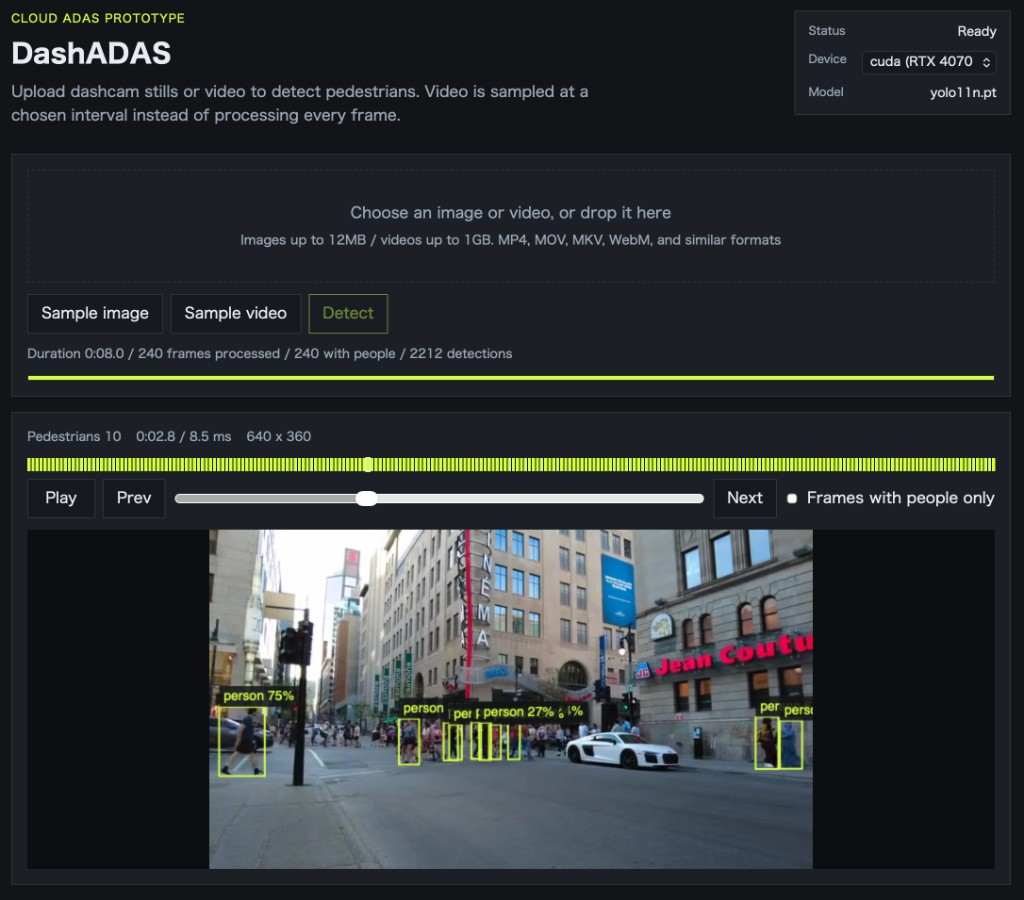
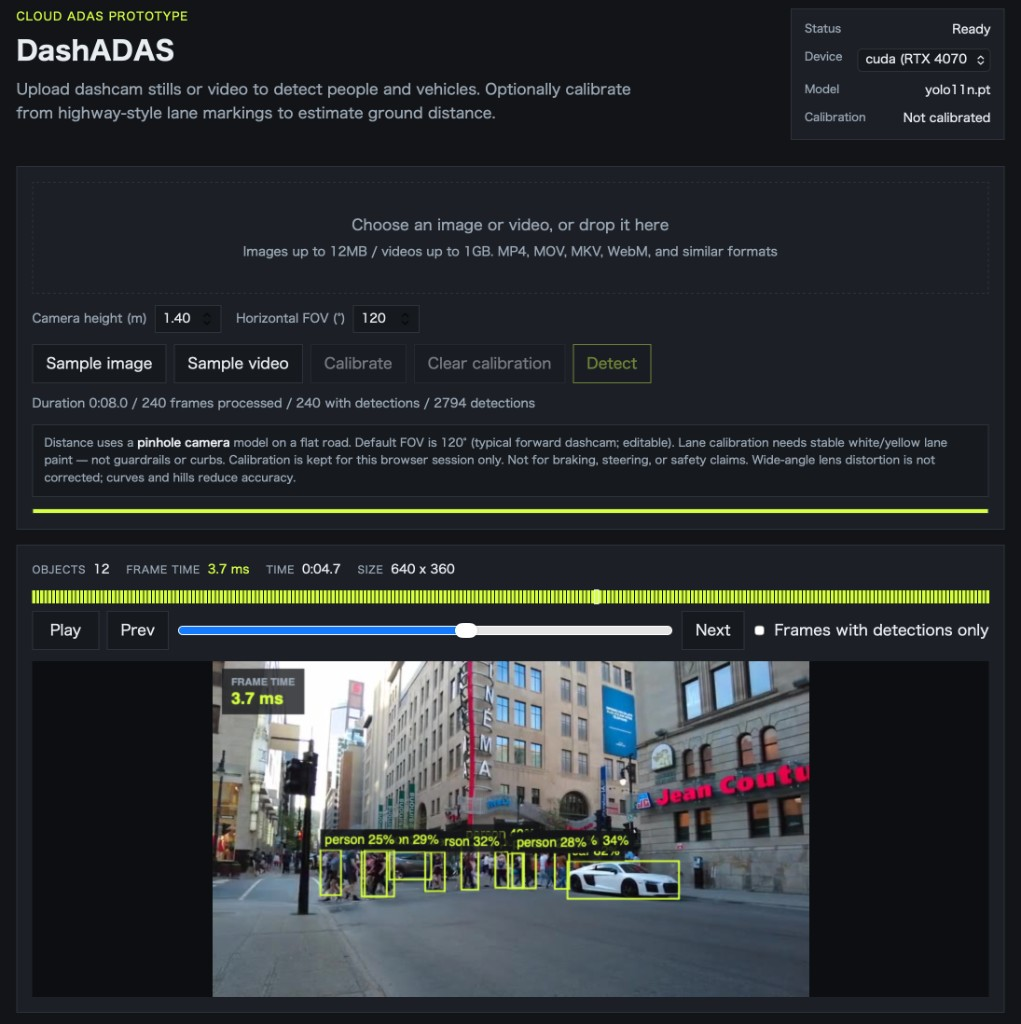
Update the README screenshot and docs for calibration, distance, and non-looping playback.

diff --git a/frontend/index.html b/frontend/index.html
@@ -4,7 +4,7 @@
     <meta charset="UTF-8" />
     <meta name="viewport" content="width=device-width, initial-scale=1" />
     <title>DashADAS</title>
-    <link rel="stylesheet" href="/styles.css?v=12" />
+    <link rel="stylesheet" href="/styles.css?v=13" />
   </head>
   <body>
     <header class="top">
@@ -117,6 +117,6 @@
       </section>
     </main>
 
-    <script src="/app.js?v=12"></script>
+    <script src="/app.js?v=13"></script>
   </body>
 </html>

diff --git a/frontend/app.js b/frontend/app.js
@@ -374,7 +374,11 @@ function playTick(now) {
       setPlaying(false);
       return;
     }
-    viewIndex = viewIndex >= frames.length - 1 ? 0 : viewIndex + 1;
+    if (viewIndex >= frames.length - 1) {
+      setPlaying(false);
+      return;
+    }
+    viewIndex += 1;
     showVideoFrame();
   }
   playHandle = requestAnimationFrame(playTick);

diff --git a/README.md b/README.md
@@ -1,25 +1,28 @@
 # DashADAS
 
-A **Linux** pedestrian-detection service with a **Web UI**. Docker on the Linux host runs YOLO on CPU, an NVIDIA GPU, or Qualcomm QNN CPU emulation; you open the UI in a browser on the LAN (`http://HOST:8080`) and upload a dashcam still or video. The page draws bounding boxes.
+A **Linux** dashcam perception demo with a **Web UI**. Docker on the Linux host runs YOLO11n on CPU, an NVIDIA GPU, or Qualcomm QNN CPU emulation; you open the UI in a browser on the LAN (`http://HOST:8080`), upload a still or video, and the page draws boxes. Optionally calibrate from highway-style lane markings to estimate ground distance (pinhole + flat-road model).
 
 This is a **lab / LinkedIn demo**, not a production vehicle ADAS. There is no control loop, no real-time guarantee, and no authentication.
 
 Repository: [KojiTanaka2025/DashADAS](https://github.com/KojiTanaka2025/DashADAS)
 
-![DashADAS Web UI: sample video with pedestrian boxes, inference on a remote NVIDIA GPU](docs/demo-ui.jpg)
+![DashADAS Web UI: sample video with person and vehicle boxes, frame time, and camera settings on a remote NVIDIA GPU](docs/demo-ui.jpg)
 
-*Screenshot: the **Web UI** in a browser at `http://HOST:8080`. Detection runs in Docker on the Linux GPU host.*
+*Screenshot: the **Web UI** at `http://HOST:8080` on CUDA. Object overlays, per-frame inference time, camera height / FOV inputs, and calibration status (session-only).*
 
 ## What it does
 
-- Detects **people only** with a pretrained YOLO11n model
+- Detects **people and vehicles** (person, car, motorcycle, bus, truck) with pretrained YOLO11n on CPU/CUDA; the QNN path stays **person-only**
 - Overlays boxes in the browser (the server returns JSON, not burned-in images)
+- Shows **frame time** (model inference ms) in the meta row and on the canvas
 - Samples video at a chosen interval, including **30 fps** on a GPU host
-- Plays the result in the Web UI (Play / Pause, timeline)
+- Plays the result in the Web UI (Play / Pause, timeline; playback **stops at the end**, no loop)
+- Optional **Calibrate** (separate from Detect): stable white/yellow lane paint → vanishing point; then boxes can show estimated distance in meters
+- Camera height and horizontal FOV (default **120°**) are editable; calibration is kept in the browser session only
 - **Sample image** uses the public Ultralytics `bus.jpg`
 - **Sample video** fetches a public street clip with pedestrians, trims it to 8 seconds, then detects and plays it
 
-Open the UI, click **Sample video**, wait for the progress bar, then watch the 30 fps overlay.
+Open the UI, click **Sample video**, wait for the progress bar, then watch the overlay. For distance labels, calibrate first on a clear highway-style lane clip.
 
 ## Requirements
 
@@ -185,21 +188,23 @@ This repo is a **lab look at that family**, not a Ride port. It converts the sam
 
 ```mermaid
 flowchart LR
-  browser["Browser on the LAN"] -->|"upload image or video"| api["FastAPI in Docker"]
-  api --> yolo["YOLO11n person class"]
-  yolo -->|"JSON boxes"| browser
+  browser["Browser on the LAN"] -->|"upload / calibrate / detect"| api["FastAPI in Docker"]
+  api --> yolo["YOLO11n objects"]
+  api --> lanes["Lane VP calibration"]
+  yolo -->|"JSON boxes + frame time"| browser
+  lanes -->|"session calib"| browser
   browser --> canvas["Canvas overlay"]
 ```
 
 | Piece | Choice |
 | --- | --- |
-| Model | YOLO11n, COCO `person` only |
+| Model | YOLO11n; CPU/CUDA: person + vehicles; QNN: person only |
 | Serving | FastAPI + Uvicorn, one worker |
 | Video | ffmpeg frame sampling, background jobs |
-| UI | Static HTML/JS, canvas boxes |
+| UI | Static HTML/JS, canvas boxes, frame time, optional distance |
 | Runtime | Docker; CPU PyTorch, CUDA wheels, or QNN CPU emulation |
 | Native lib | `libdashadas_perception.so` (C ABI) on Linux amd64; see `native/README.md` |
-| Calibration | Optional highway-style lane vanishing point (session-only); pinhole distance labels |
+| Calibration | Highway-style lane vanishing point (session-only); pinhole distance labels |
 
 ## Native C++ library
 
@@ -215,9 +220,18 @@ That produces `native/build/libdashadas_perception.so`. Link with `-ldashadas_pe
 
 ## Video settings
 
-For a real dashcam clip, start with **1 second interval, 300 frames max**. Use **30 fps** only on GPU and on short clips. CPU can keep up with sparse sampling, not with full 30 fps dashcam.
+For a real dashcam clip, start with **1 second interval, 300 frames max**. Use **30 fps** only on GPU and on short clips. CPU can keep up with sparse sampling, not with full 30 fps dashcam. Playback stops on the last frame (no loop).
 
 Uploads are capped at 12 MB for images and 1 GB for video.
+
+## Lane calibration and distance
+
+1. Set **camera height** (m) and **horizontal FOV** (°; default 120).
+2. Select a video with clear white/yellow lane paint (motorway-like). Press **Calibrate** (not Detect).
+3. When enough stable lane frames are found, the header shows **Calibrated** and the session stores the vanishing point.
+4. Run **Detect**; boxes can show class, score, and estimated distance. Clear calibration or close the tab to reset.
+
+This uses a **pinhole** camera on a **flat road**. Distortion is not corrected. It is not for braking or steering.
 
 ## Security
 
@@ -227,4 +241,4 @@ Uploads are capped at 12 MB for images and 1 GB for video.
 
 ## Disclaimer
 
-DashADAS is a cloud-style **perception demo**. It does not steer, brake, or certify a vehicle. Timing numbers are for lab comparison of CPU, GPU, and QNN CPU emulation, not for safety claims. The QNN path shows familiarity with the QAIRT conversion/runtime used around Snapdragon Ride; it is not a Snapdragon Ride DCU implementation.
+DashADAS is a cloud-style **perception demo**. It does not steer, brake, or certify a vehicle. Timing and distance numbers are for lab comparison, not for safety claims. The QNN path shows familiarity with the QAIRT conversion/runtime used around Snapdragon Ride; it is not a Snapdragon Ride DCU implementation. Lane calibration and pinhole distance estimates assume a flat road and known FOV.
